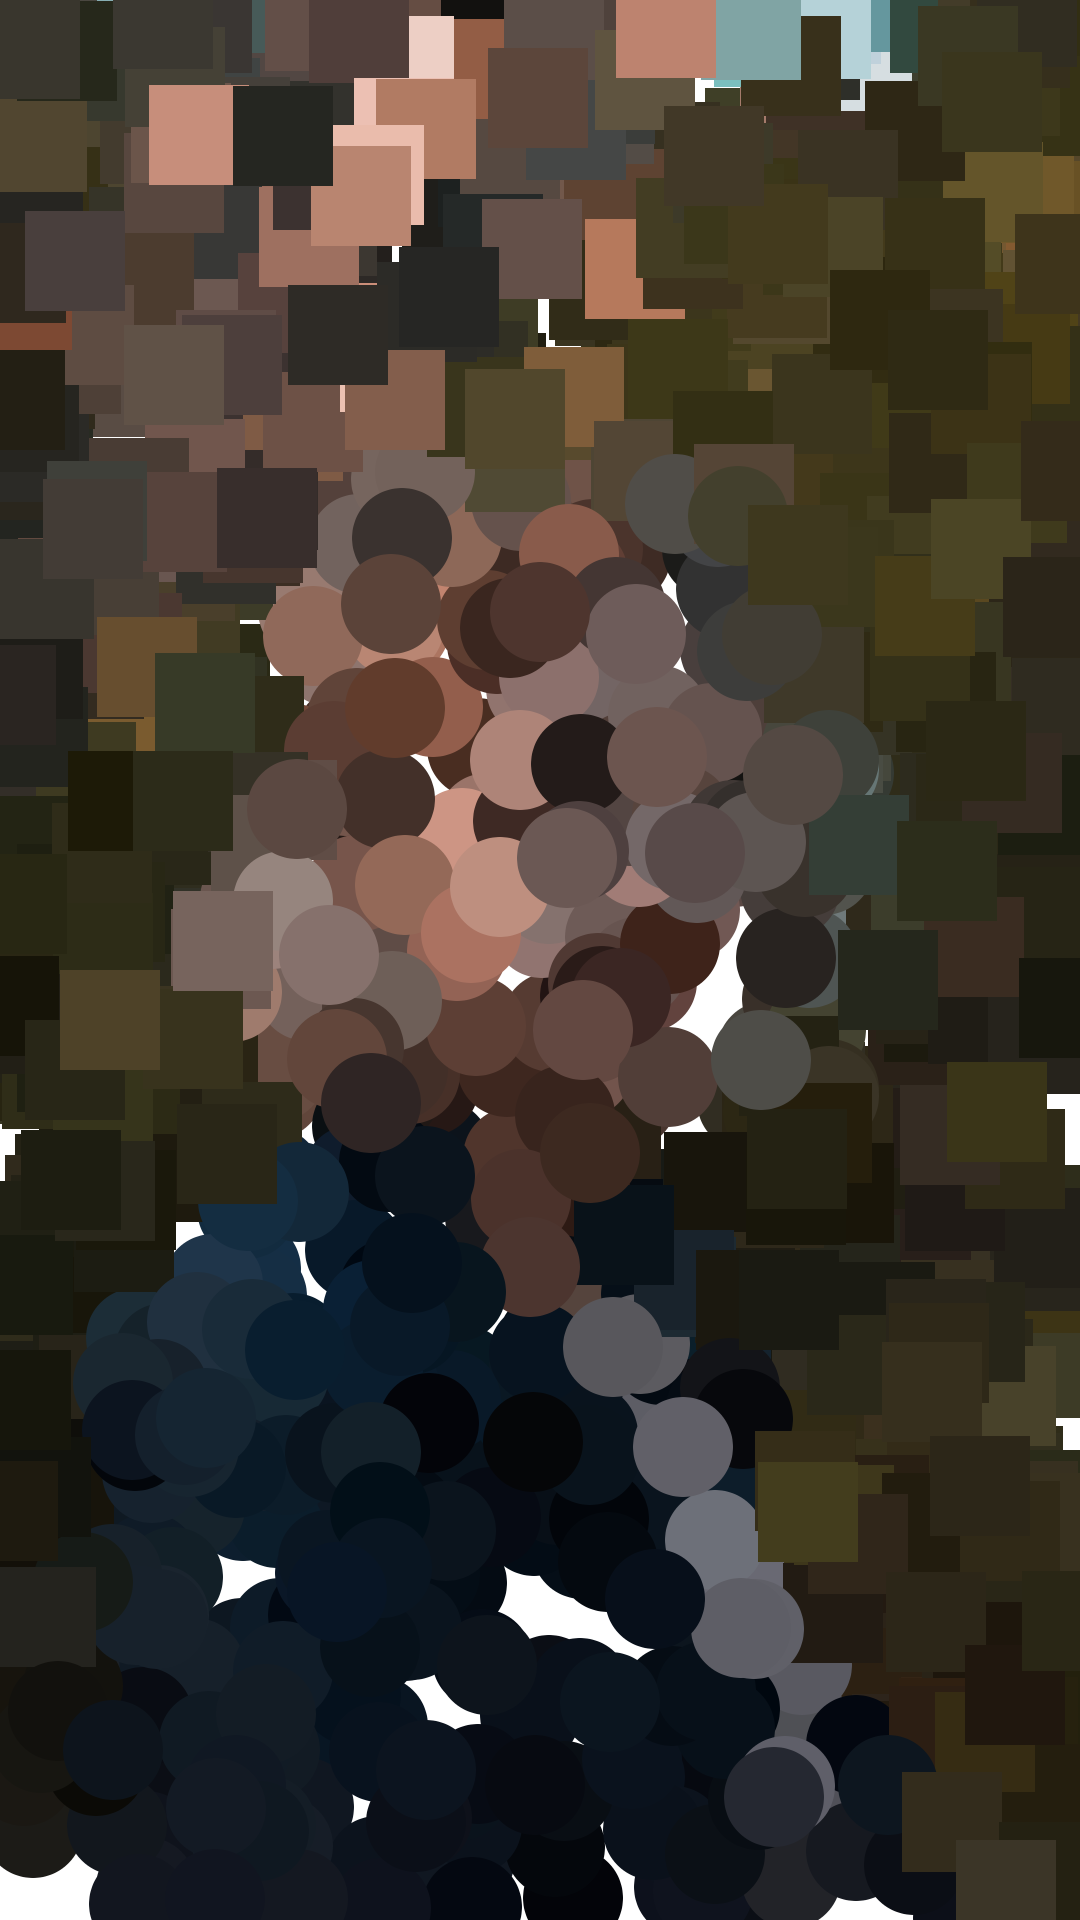
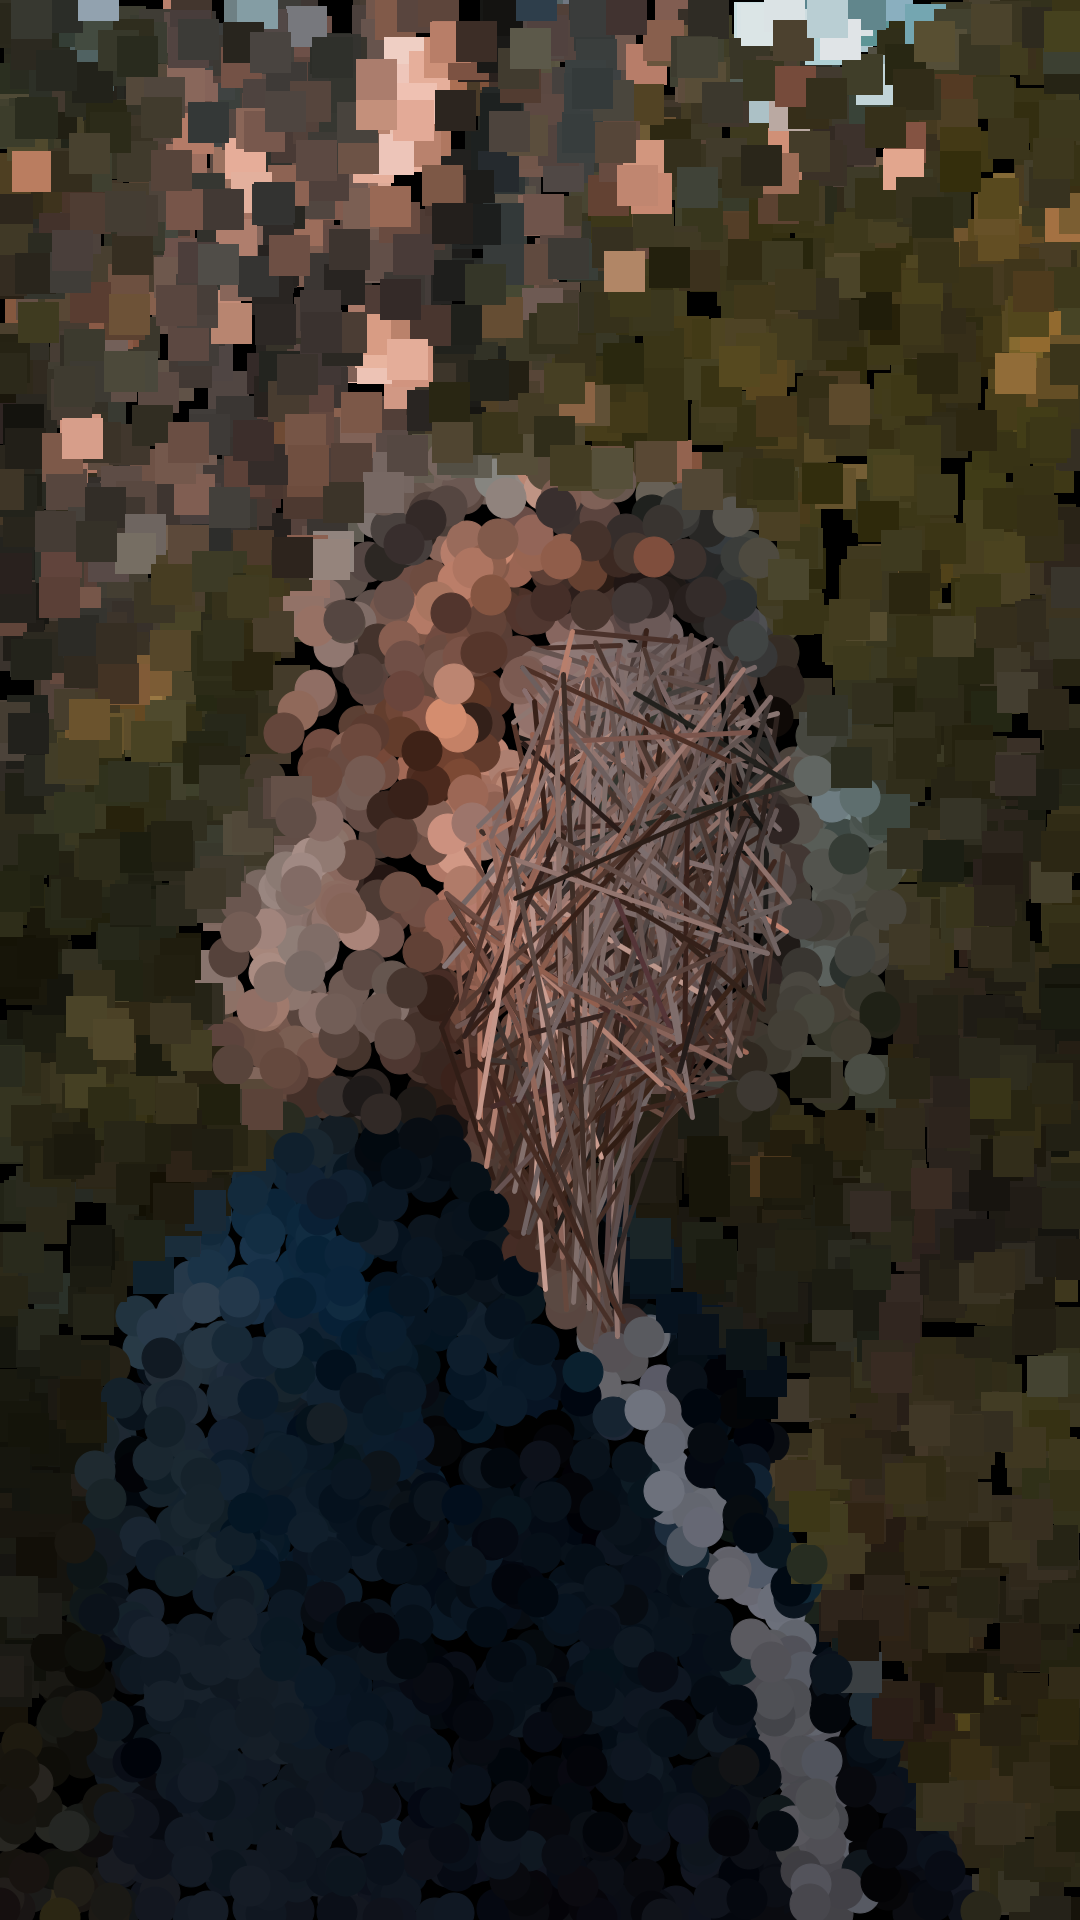
Started working with a second pass

diff --git a/sketch.js b/sketch.js
@@ -3,73 +3,84 @@ let maskImg=null;
 let renderCounter=0;
 
 function preload() {
-  sourceImg = loadImage("input_2.jpg");
-  maskImg = loadImage("mask_2.png");
+ 	sourceImg = loadImage("input_1.jpg");
+ 	maskImg = loadImage("mask_1.png");
+ 	maskImgb = loadImage("mask_1b.png");
 }
 
 function setup () {
-  let main_canvas = createCanvas(1080, 1920);
-  main_canvas.parent('canvasContainer');
+  	let main_canvas = createCanvas(1080, 1920);
+ 	main_canvas.parent('canvasContainer');
 
-  imageMode(CENTER);
-  noStroke();
-  background(255);
-  sourceImg.loadPixels();
-  maskImg.loadPixels();
+ 	imageMode(CENTER);
+ 	noStroke();
+ 	background(0);
+  	sourceImg.loadPixels();
+ 	maskImg.loadPixels();
+ 	maskImgb.loadPixels();
 }
 
 const pointSize = 40;
+let draw_pass = 0;
+let x1 = 0;
+let y1 = 0;
+
 function draw () {
-  let x1 = 0;
-  let y1 = 0;
-  for(let i=0;i<1080.pointSize;i++) {
-    //let x = int(i * pointSize);
-    //let y = int(renderCounter * pointSize);
-    let x = floor(random(sourceImg.width));
-    let y = floor(random(sourceImg.height));
-    let pix = sourceImg.get(x, y);
-    let mask = maskImg.get(x, y);
-    let halfSize = pointSize/2;
-    fill(pix);
-    stroke(pix);
+ 	//let x1 = 0;
+ 	//let y1 = 0;
+  	for(let i=0; i<50; i++) {
+	    //let x = int(i * pointSize);
+	    //let y = int(renderCounter * pointSize);
+	    let x = floor(random(sourceImg.width));
+	    let y = floor(random(sourceImg.height));
+	    let pix = sourceImg.get(x, y);
+	    let mask = maskImg.get(x, y);
+	    let maskb = maskImgb.get(x, y);
+	    let halfSize = pointSize/2;
+	    fill(pix);
+	    stroke(pix);
 
-    // original
-    /*if(mask[0] > 128) {
-      ellipse(x, y, pointSize, pointSize);
-    }
-    else {
-      rect(x-halfSize, y-halfSize, pointSize, pointSize);    
-    }
-}*/
-
-    // Test with connecting lines
-    if(mask[0] > 128) {
-    	if(x1!=0) {
-    		strokeWeight(5);
-    		line(x1+halfSize, y1+halfSize, x+halfSize, y+halfSize);
-    		x1 = x;
-    		y1 = y;
-    	}
-    	else{
-    		x1 = x;
-    		y1 = y;
-    	}
-    }
-    else{
-    	noStroke();
-    	rect(x, y, pointSize, pointSize);
-    }
-}
+	    if(draw_pass==0){
+		    // original
+		    if(mask[0] > 128 && draw_pass==0) {
+		      ellipse(x, y, pointSize, pointSize);
+		    }
+		    else {
+		      rect(x-halfSize, y-halfSize, pointSize, pointSize);    
+		    }
+	  	}
+		else if(draw_pass==1){
+	    	// connecting lines
+		    if(maskb[0] > 128 && draw_pass==1) {
+		    	if(x1!=0) {	
+		    		strokeWeight(5);
+		    		line(x1+halfSize, y1+halfSize, x+halfSize, y+halfSize);
+		    		x1 = x;
+		    		y1 = y;
+		    	}
+		    	else{
+		    		x1 = x;
+		    		y1 = y;
+		    	}
+		    }
+		}
+  	}
 
 
 
   
-  renderCounter = renderCounter + 1;
-  if(renderCounter > 1920/pointSize) {
-    console.log("Done!")
-    noLoop();
-    // saveBlocksImages();
-  }
+	renderCounter = renderCounter + 1;
+	if(renderCounter > 100) {
+ 		if(draw_pass==0) {
+ 			renderCounter = 0;
+ 			draw_pass = 1;
+ 		}
+ 		else{
+    		console.log("Done!")
+    		noLoop();
+    	}
+    	// saveBlocksImages();
+    }
 }
 
 function keyTyped() {
